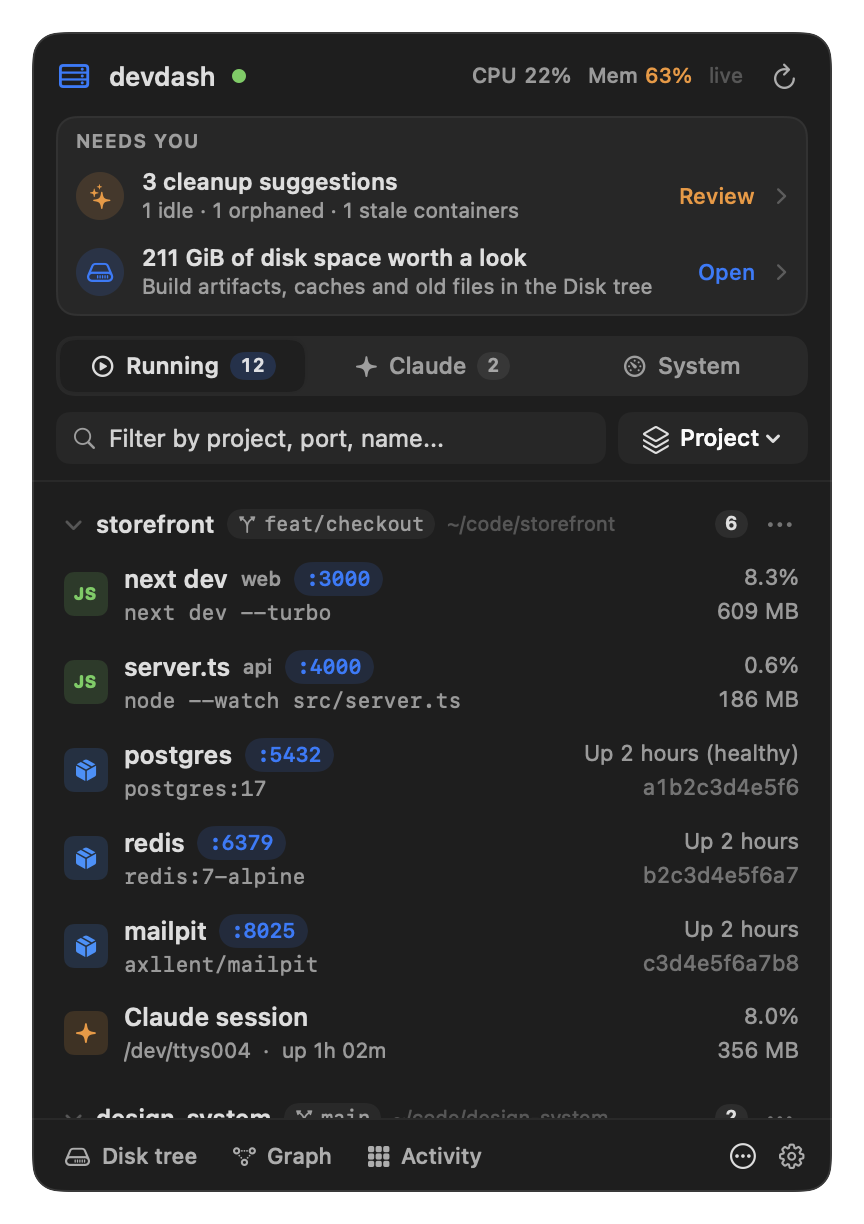
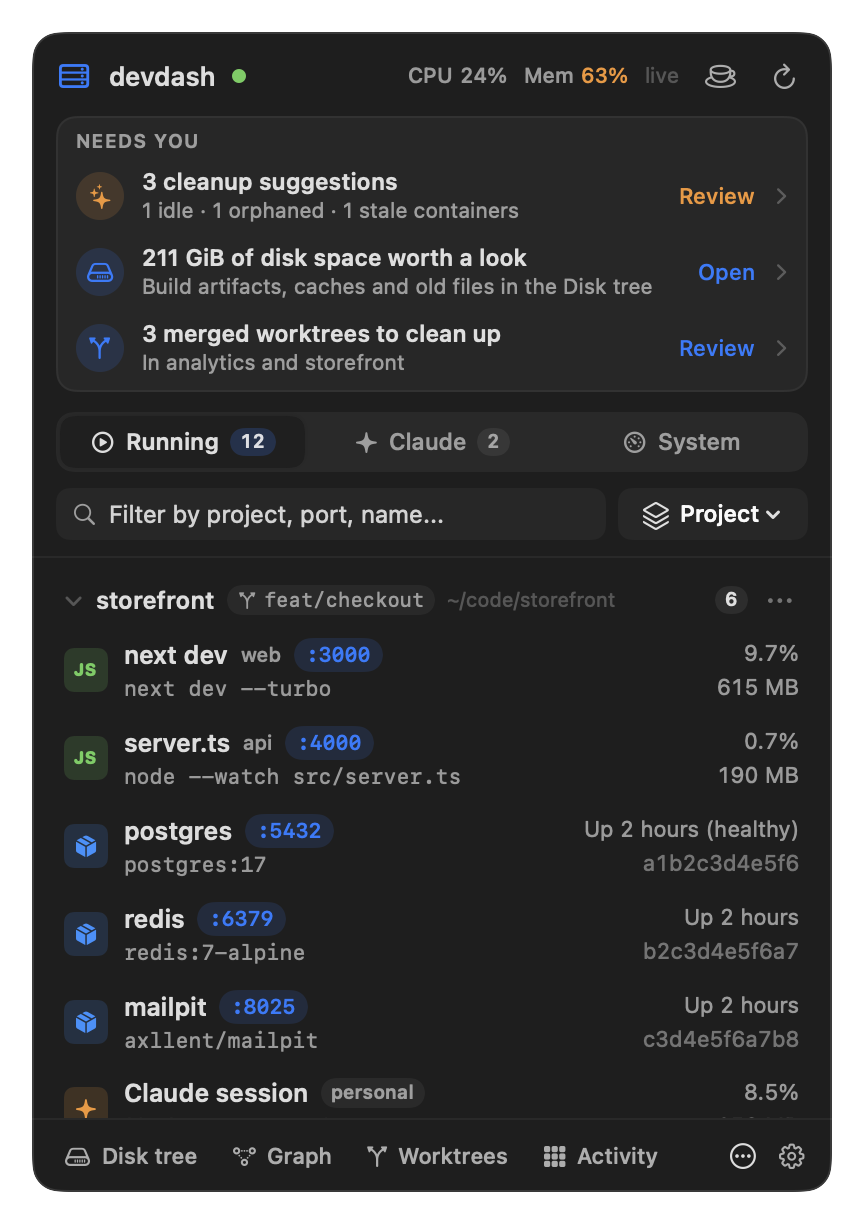
Add the Worktrees screenshot and refresh the popover screenshots

diff --git a/macos/Sources/DevDashBar/SelfTest.swift b/macos/Sources/DevDashBar/SelfTest.swift
@@ -205,6 +205,7 @@ enum Renderer {
             ("detail", { store.routes = store.servers.first.map { [.processDetail(pid: $0.pid, name: $0.displayName)] } ?? [] }),
             ("settings", { store.routes = [.settings] }),
             ("qrcode", { store.routes = urlRoute(store) { $0.primaryURL?.lan != nil } }),
+            ("worktrees", { store.routes = [.worktrees(repo: nil, cleanup: false)] }),
             ("qrcode-localhost", { store.routes = urlRoute(store) { $0.exposeHint?.hasPrefix("Restart") == true } }),
         ]
         for (name, apply) in screens {
